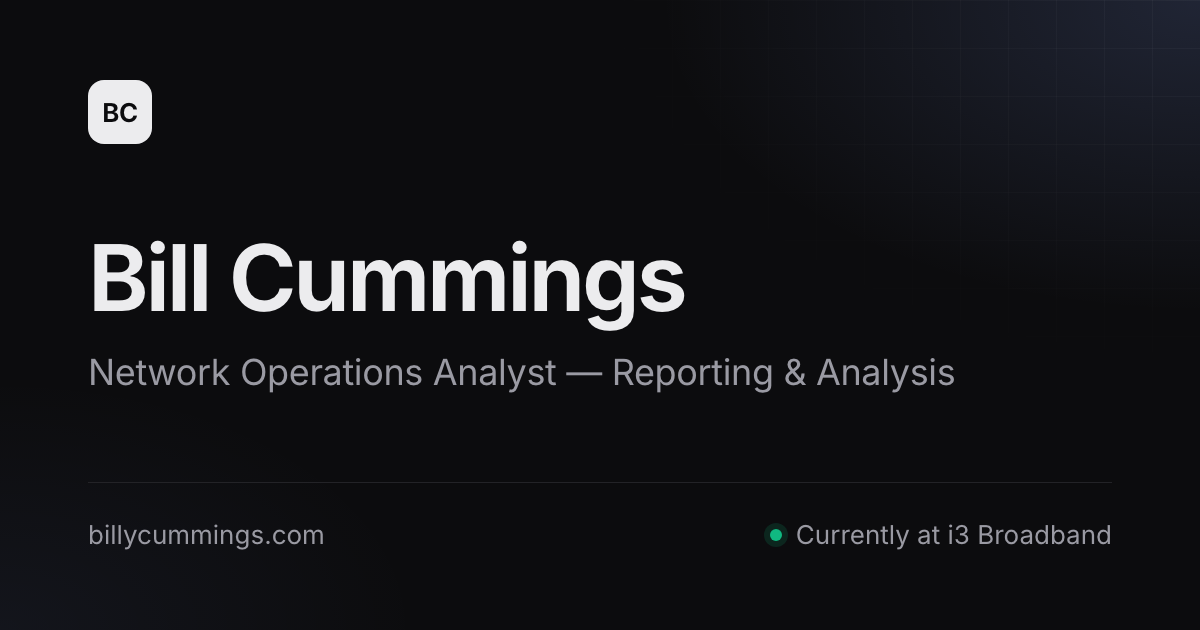
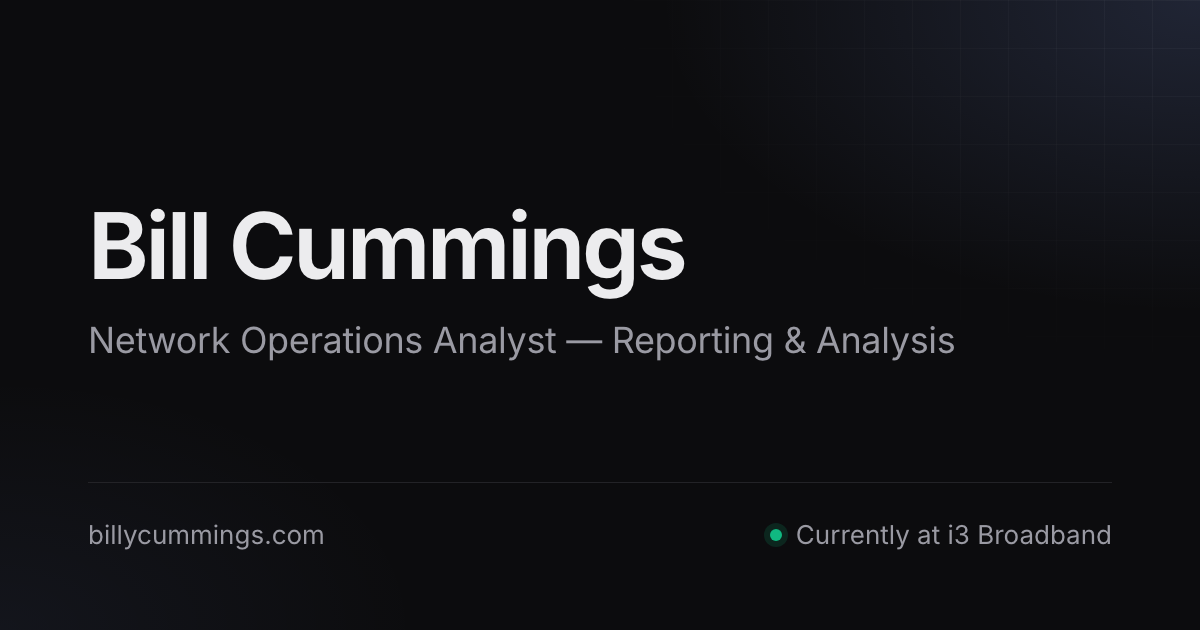
Remove BC badge from link-preview card

Changed region(s): [[0.0617, 0.3317, 0.8017, 0.6333], [0.0617, 0.1206, 0.1542, 0.2413]]

diff --git a/scripts/og/card.html b/scripts/og/card.html
@@ -23,7 +23,6 @@
         padding: 80px 88px;
         display: flex;
         flex-direction: column;
-        justify-content: space-between;
       }
       /* Faint grid texture, masked so it fades out toward the bottom-left. */
       body::before {
@@ -36,12 +35,7 @@
         background-size: 48px 48px;
         mask-image: radial-gradient(800px 500px at 100% 0%, black, transparent 75%);
       }
-      .mark {
-        width: 64px; height: 64px; border-radius: 16px;
-        background: #ececee; color: #0c0c0e;
-        display: grid; place-items: center;
-        font-weight: 650; font-size: 26px; letter-spacing: -0.02em;
-      }
+      .intro { margin: auto 0; }
       h1 { font-size: 92px; font-weight: 650; letter-spacing: -0.035em; line-height: 1; }
       .role { margin-top: 26px; font-size: 36px; color: #9a9aa3; letter-spacing: -0.01em; }
       .footer { display: flex; align-items: center; justify-content: space-between; font-size: 26px; color: #9a9aa3; }
@@ -51,8 +45,7 @@
     </style>
   </head>
   <body>
-    <div class="mark">BC</div>
-    <div>
+    <div class="intro">
       <h1>Bill Cummings</h1>
       <p class="role">Network Operations Analyst — Reporting &amp; Analysis</p>
     </div>
